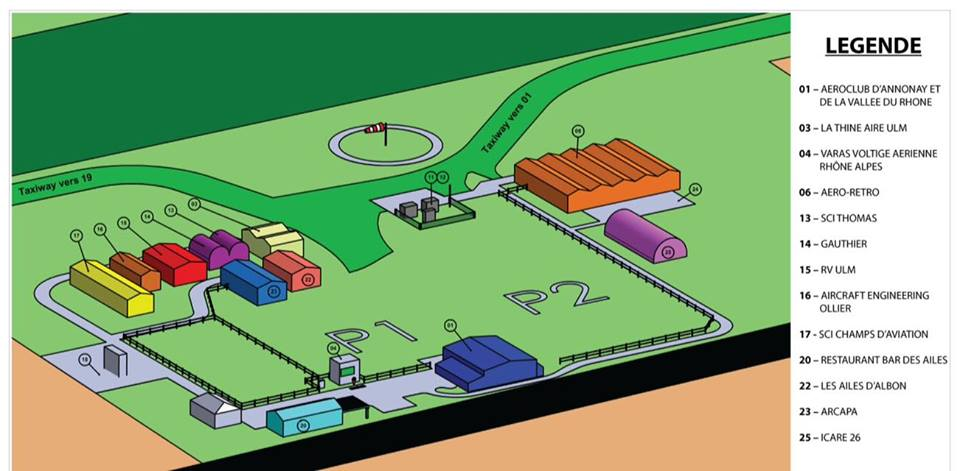
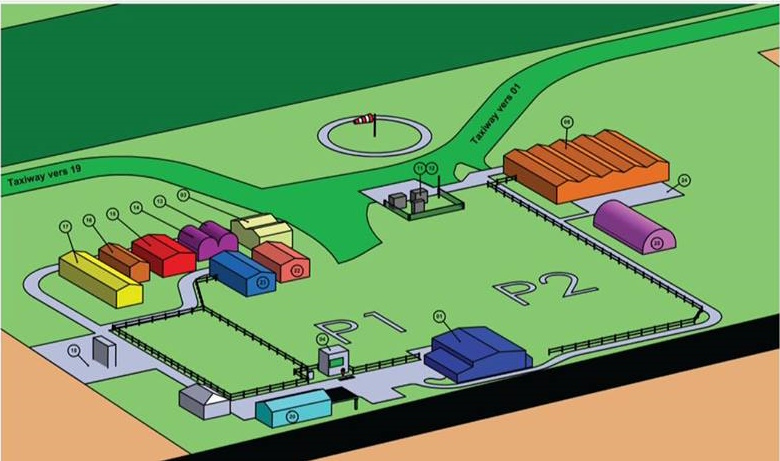
feat: mise en forme

diff --git a/src/app/inscription/inscription.component.html b/src/app/inscription/inscription.component.html
@@ -1,16 +1,15 @@
+<h1>Inscription</h1>
 <article>
-  Inscription
   <p>
     Vous souhaitez vous inscrire à l'école de pilotage ou vous êtes pilotes et
-    souhaitez rejoindre notre association?
-     Rendez-vous dans nos locaux un samedi
+    souhaitez rejoindre notre association? Rendez-vous dans nos locaux un samedi
     à partir de 14h30, nous vous expliquerons tout cela en détail et nous ferons
     visiter nos installations ainsi que nos aéronefs ou renseignements au numéro
     <a type="tel">04 75</a>.
   </p>
 </article>
-
+<h1>Vol découverte</h1>
 <article>
-  Vol découverte
-  <p>Réndez vous sur la page vole de découverte pour plus d'informations</p>
+
+  <p>Rendez vous sur la page <a [routerLink]="'/voler/decouvrir'">vol de découvertes</a> pour plus d'informations</p>
 </article>

diff --git a/src/app/aeroclub/aeroclub.component.html b/src/app/aeroclub/aeroclub.component.html
@@ -21,8 +21,21 @@
       >Communauté de Commune Portes de Dromardèche</a
     >
     depuis début 2007.
-    <div class="">
+    <div class="plan">
       <img src="images/plan-lflr.jpg" />
+      <div class="legend">
+        <h3>Légende</h3>
+        <ul>
+          <li>01 - Aéro-club d'Annonay et de la vallée du Rhône</li>
+          <li>03-04 - Hangars privés</li>
+          <li>06 - Aéro-retro</li>
+          <li>13-17 - Hangars privés</li>
+          <li>20 - Restaurant Bar des Ailes</li>
+          <li>22 - Hangar privé</li>
+          <li>23 - ARCAPA</li>
+          <li>25 - Hangar privé</li>
+        </ul>
+      </div>
     </div>
   </div>
   <p>

diff --git a/src/app/inscription/inscription.component.ts b/src/app/inscription/inscription.component.ts
@@ -1,11 +1,10 @@
 import { Component } from '@angular/core';
+import { RouterLink } from '@angular/router';
 
 @Component({
-    selector: 'app-inscription',
-    imports: [],
-    templateUrl: './inscription.component.html',
-    styleUrl: './inscription.component.scss'
+  selector: 'app-inscription',
+  imports: [RouterLink],
+  templateUrl: './inscription.component.html',
+  styleUrl: './inscription.component.scss',
 })
-export class InscriptionComponent {
-
-}
+export class InscriptionComponent {}

diff --git a/src/app/home/home.component.scss b/src/app/home/home.component.scss
@@ -118,6 +118,7 @@ p.presentation {
 }
 .social-container {
   display: flex;
+  flex-wrap: wrap;
   gap: 1em;
   > * {
     flex: 1 1;
@@ -140,7 +141,10 @@ p.presentation {
       text-align: center;
       color: #fff;
       background: #1b4470;
-      //  background: url('../../../public/images/rotating_card2.png') repeat-x;
+
+      &:hover{
+        background: #000f25;
+      }
     }
     a,
     a:visited {

diff --git a/src/app/app.component.scss b/src/app/app.component.scss
@@ -18,6 +18,7 @@ header {
   z-index: 2;
   .content-panel {
     display: flex;
+    flex-wrap: wrap;
     gap: 1em;
 
     img.logo {
@@ -70,11 +71,13 @@ footer {
   color: #fff;
 
   display: flex;
+  flex-wrap: wrap;
   > * {
     flex: 1;
   }
   .coordonnees {
     display: flex;
+
     flex-direction: column;
     a,
     a:visited,

diff --git a/src/index.html b/src/index.html
@@ -2,7 +2,7 @@
 <html lang="en">
   <head>
     <meta charset="utf-8" />
-    <title>Aeroclub</title>
+    <title>Aéroclub</title>
     <base href="/" />
     <meta name="viewport" content="width=device-width, initial-scale=1" />
     <link rel="icon" type="image/x-icon" href="favicon.ico" />

diff --git a/src/app/app.component.html b/src/app/app.component.html
@@ -2,7 +2,7 @@
   <div class="content-panel">
     <img class="logo" alt="logo" [src]="'images/logo.png'" />
     <div>
-      <h1>Aeroclub d'Annonay</h1>
+      <h1>Aéro-club d'Annonay et de la vallée du Rhône</h1>
       <nav>
         <ul>
           <li>

diff --git a/src/app/aeroclub/aeroclub.component.scss b/src/app/aeroclub/aeroclub.component.scss
@@ -7,7 +7,12 @@ section {
   h2 {
     margin: 0;
   }
-
+  .plan {
+    padding-top: 2em;
+    gap:1em;
+    display: flex;
+    flex-wrap: wrap;
+  }
   ul.partners {
     list-style: none;
     display: flex;

diff --git a/src/app/voler/decouvrir/decouvrir.component.scss b/src/app/voler/decouvrir/decouvrir.component.scss
@@ -6,8 +6,12 @@
 
 section.formules {
   display: flex;
+  flex-wrap: wrap;
   gap: 1em;
   article {
     flex: 1 1;
+    img{
+      width: 100%;
+    }
   }
 }

diff --git a/src/app/voler/apprendre/apprendre.component.scss b/src/app/voler/apprendre/apprendre.component.scss
@@ -1,7 +1,8 @@
 :host {
   display: block;
+  margin: 0;
+  padding: 1em;
 }
-
 article {
 
   display: flex;

diff --git a/src/app/inscription/inscription.component.scss b/src/app/inscription/inscription.component.scss
@@ -1,0 +1,5 @@
+:host {
+  display: block;
+  margin: 0;
+  padding: 1em;
+}
